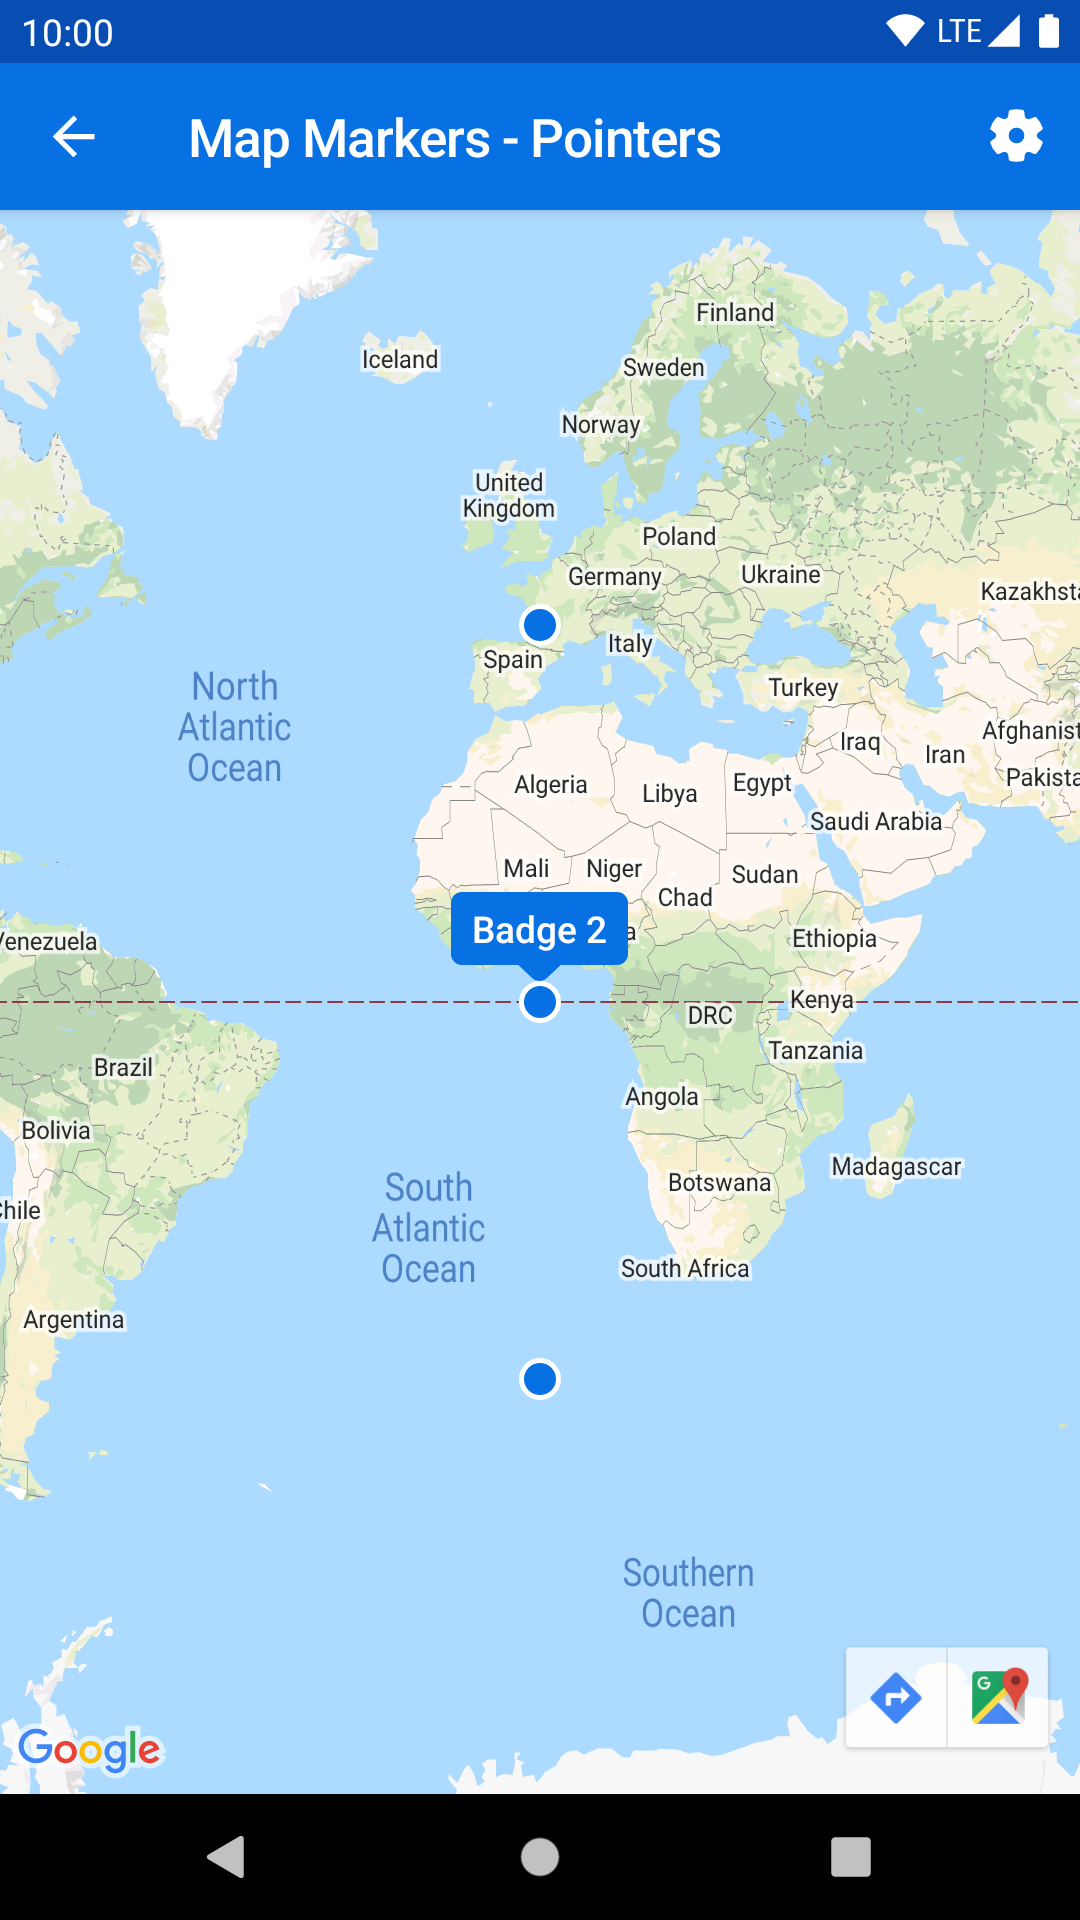
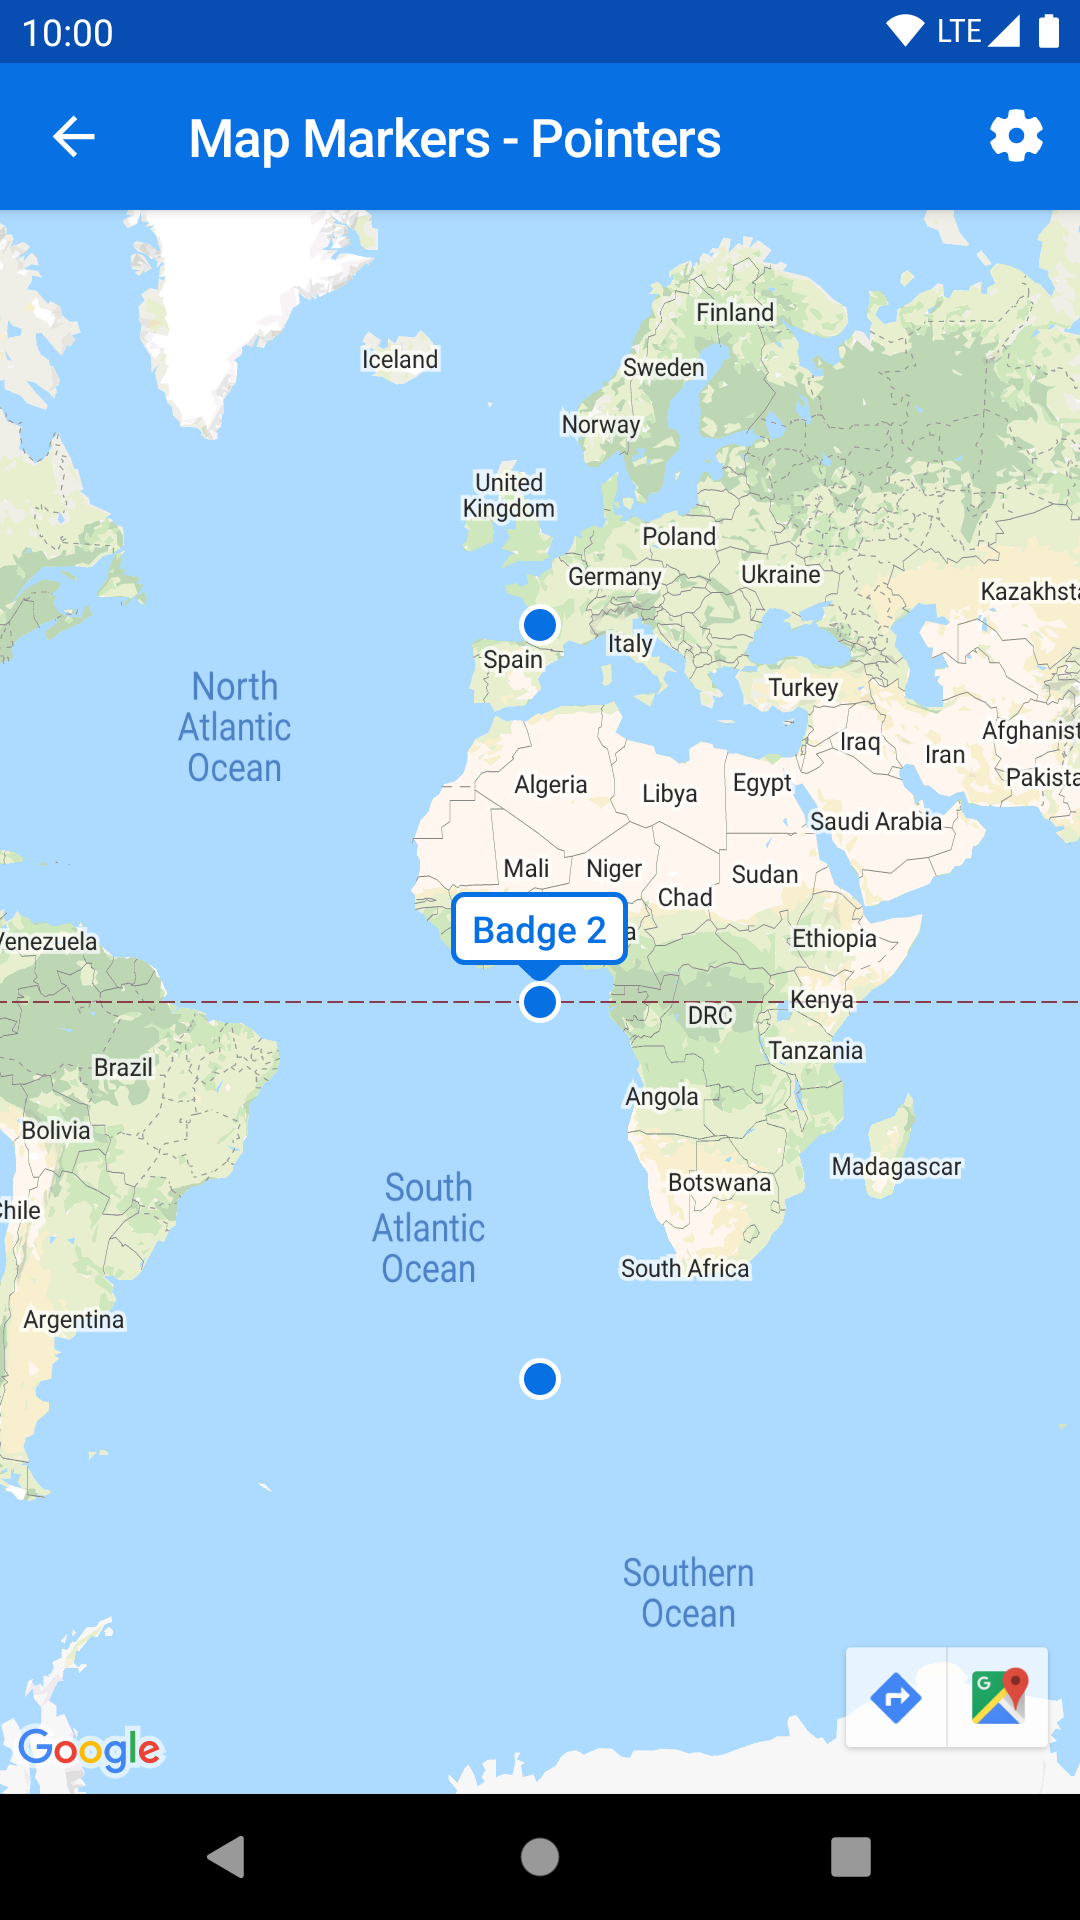
Updated selected map component. (#552)

diff --git a/Backpack/src/main/java/net/skyscanner/backpack/map/BpkMap.kt b/Backpack/src/main/java/net/skyscanner/backpack/map/BpkMap.kt
@@ -52,7 +52,7 @@ private class BpkWindowInfoAdapter(
 
   override fun getInfoWindow(marker: Marker): View =
     createBpkMarkerView(context, marker.title, marker.icon, showPointer = !marker.pointerOnly)
-      .apply { isSelected = !marker.pointerOnly }
+      .apply { isSelected = true }
 
   override fun getInfoContents(p0: Marker): View? =
     null

diff --git a/UNRELEASED.md b/UNRELEASED.md
@@ -2,6 +2,9 @@
 
 > Place your changes below this line.
 
+**Updated:**
+  - `BpkMapMarker` in selected state looks the same in all the cases
+
 ## How to write a good changelog entry
 
 1. Add 'Breaking', 'Added' or 'Fixed' in bold depending on if the change will be major, minor or patch according to [semver](semver.org).
